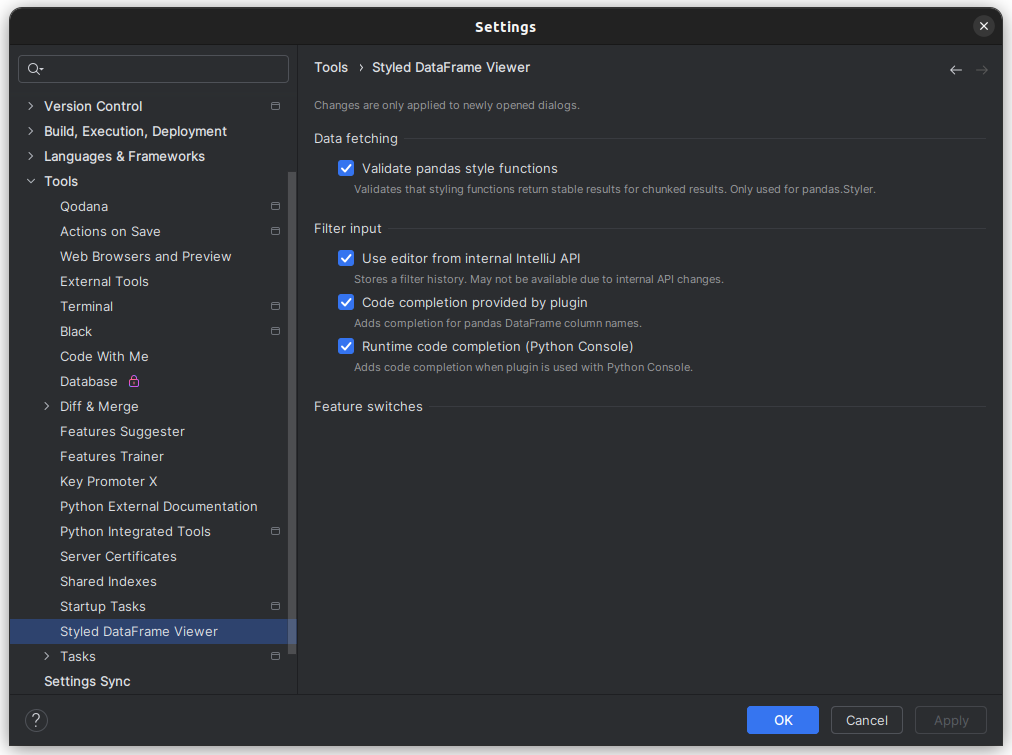
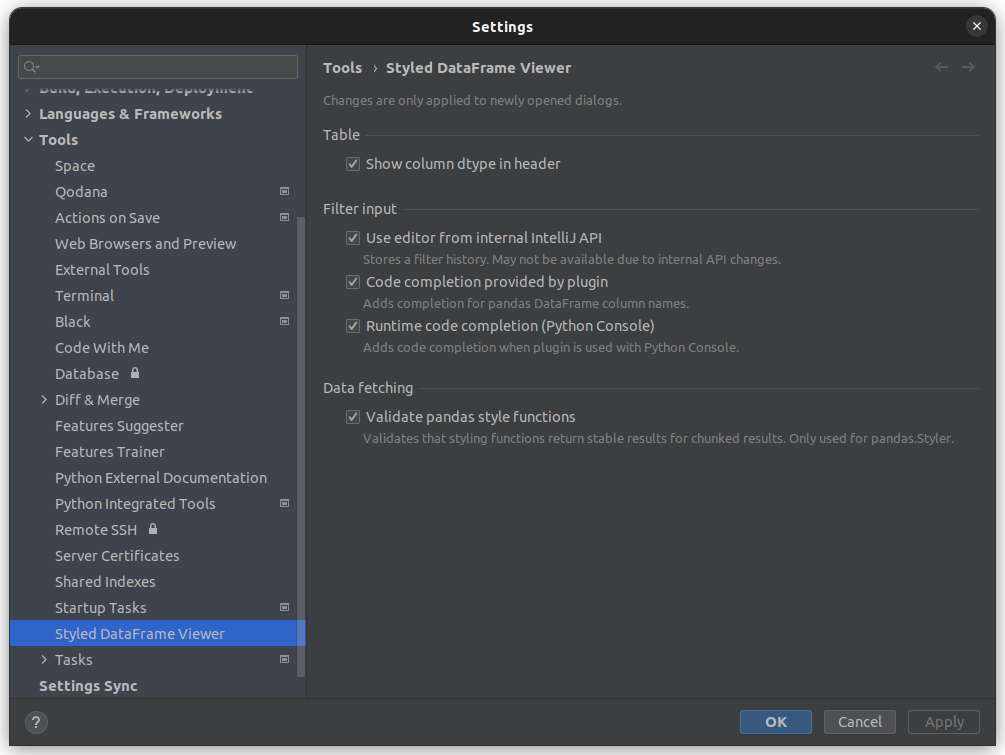
[plugin] document 'show dtype'

Changed region(s): [[0.0, 0.0305, 0.9562, 0.9748], [0.7095, 0.9139, 0.8945, 0.9748], [0.9254, 0.9444, 0.9562, 0.9748]]

diff --git a/docs/SETTINGS.md b/docs/SETTINGS.md
@@ -10,14 +10,11 @@ In the settings dialog select **Tools > Styled DataFrame Viewer**
 > The plugin settings are global and apply to all existing projects of the current IntelliJ IDEA version.
 
 ![settings](images/settings/settings.png)
+## Table
+### Show Column DType In Header
+Default: `on`
 
-## Data fetching
-
-### Validate Pandas Style Functions
-Default: `off`
-
-Allows to automatically validate used style functions whenever data is fetched from the running Python process.
-> For more information read: [Validating Style Functions](PANDAS_VALIDATING_STYLE_FUNCTIONS.md)
+Displays the data type in the column header of the table.
 
 ## Filter input
 ### Use editor from internal IntelliJ API
@@ -40,7 +37,10 @@ The filter input for the Python Console uses runtime code completion.
 
 Runtime code completion may lead to certain side effects, such as unintentional code execution without an explicit user input.
 
-## Feature switches
-Enable/disable experimental or unsupported features.
+## Data fetching
 
-At the moment there are no feature switches available.
+### Validate Pandas Style Functions
+Default: `off`
+
+Allows to automatically validate used style functions whenever data is fetched from the running Python process.
+> For more information read: [Validating Style Functions](PANDAS_VALIDATING_STYLE_FUNCTIONS.md)

diff --git a/docs/PANDAS_DATAFRAME.md b/docs/PANDAS_DATAFRAME.md
@@ -111,8 +111,6 @@ Fetching styled data in chunks is way faster and less memory consuming.
 But of course there is one problem when it comes to custom styling functions.
 
 #### The Problem
-To be able to fetch styled chunks, smaller parts of the `DataFrame`, the configured styling functions are applied on the chunks.
-
 As we already know, `Styler.applymap` (`Styler.map`) works through the `DataFrame` elementwise, therefore it is safe to use in combination with chunks.
 
 `Styler.apply` passes each column or row of a `DataFrame` one-at-a-time or the entire `DataFrame` at once, depending on the axis keyword argument.

diff --git a/docs/PANDAS_VALIDATING_STYLE_FUNCTIONS.md b/docs/PANDAS_VALIDATING_STYLE_FUNCTIONS.md
@@ -20,7 +20,6 @@ And this might have to be done not only for one `DataFrame`, but for many ones t
 The plugin provides an automatic validation for pandas `DataFrames` by using a similar algorithm as described above.
 
 Whenever a chunk is fetched from a `DataFrame`, the plugin can validate that the used style functions return a stable styling for different sizes of chunks.
-A short video to demo the feature, taken from an earlier PoC, can be found here: [Validation Demo](https://twitter.com/rendner/status/1530298351698296833?s=20&t=6wXXchcZvLfHJK5ZndpNFA)
 
 
 ### Things To Keep In Mind:

diff --git a/docs/TABLE.md b/docs/TABLE.md
@@ -35,7 +35,7 @@ The data is loaded only when needed.
 Each time you scroll through the table, the data for the currently visible area is loaded, if it does not already exist.
 
 ## Debugger
-The data of the pandas `DataFrame` can only be loaded when the debugger is suspended for example when reaching a breakpoint.
+The data of the `DataFrame` can only be loaded when the debugger is suspended for example when reaching a breakpoint.
 Breakpoints are special markers that suspend program execution at a specific point.
 Between two breakpoints no data can be fetched from the `DataFrame`.
 
